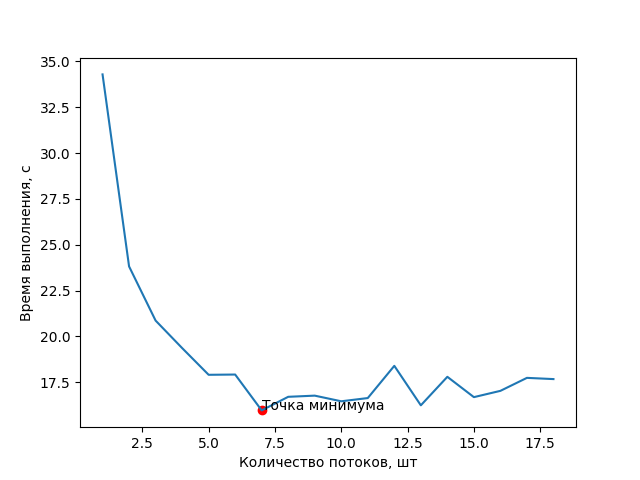
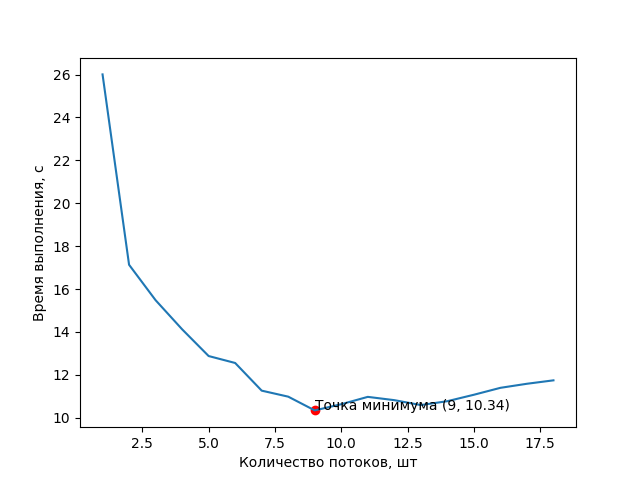
Little corrections

diff --git a/lab_4/main.py b/lab_4/main.py
@@ -40,17 +40,17 @@ if __name__ == "__main__":
         if temp[0] in paths.keys():
             paths[temp[0]] = temp[1]
 
-    if args.get_card is not None:
+    if args.get_card:
         find_number(constants["hash"], constants["last_4_nums"], constants["bins"], paths["card_number"], logger)
     
-    elif args.luhn is not None:
+    elif args.luhn_alg:
         card_num: int = FileHandler.read_file(paths['card_number'], logger)
-        luhn_algorithm(card_num)
+        print(f"Card number is {luhn_algorithm(card_num)}")
     
-    elif args.graph is not None:
+    elif args.draw_graph:
         data = get_stats(constants["hash"], constants["last_4_nums"], constants["bins"], logger, paths["times"])
 
-        data = map(int, data)
+        data = list(map(float, data))
 
         draw_graph(data, logger, paths["graph"])
     
@@ -58,3 +58,4 @@ if __name__ == "__main__":
     #python main.py -card -p settings.json
     #python main.py -luhn -p settings.json
     #python main.py -graph -p settings.json
+    #python main.py -ch graph,new_graph.png -p settings.json

diff --git a/lab_4/functions.py b/lab_4/functions.py
@@ -71,7 +71,7 @@ def get_stats(hash: str, last_4_nums: str, bins: list[int],
             pool.starmap(get_valide_card_num, args)
             times.append(time.time() - start)
 
-    times = map(str, times)
+    times = list(map(str, times))
 
     FileHandler.write_to_file(path_to_save, " ".join(times), logger)
     return times
@@ -84,7 +84,7 @@ def draw_graph(data: list[float], logger: logging.Logger, path_to_save: str):
     m = min(data)
     m = data.index(m)
     plt.scatter([m + 1], [data[m]], c = "red", )
-    plt.annotate("Точка минимума", (m + 1, data[m]))
+    plt.annotate(f"Точка минимума ({m + 1}, {round(data[m], 2)})", (m + 1, data[m]))
 
     plt.xlabel('Количество потоков, шт')
     plt.ylabel('Время выполнения, с')
